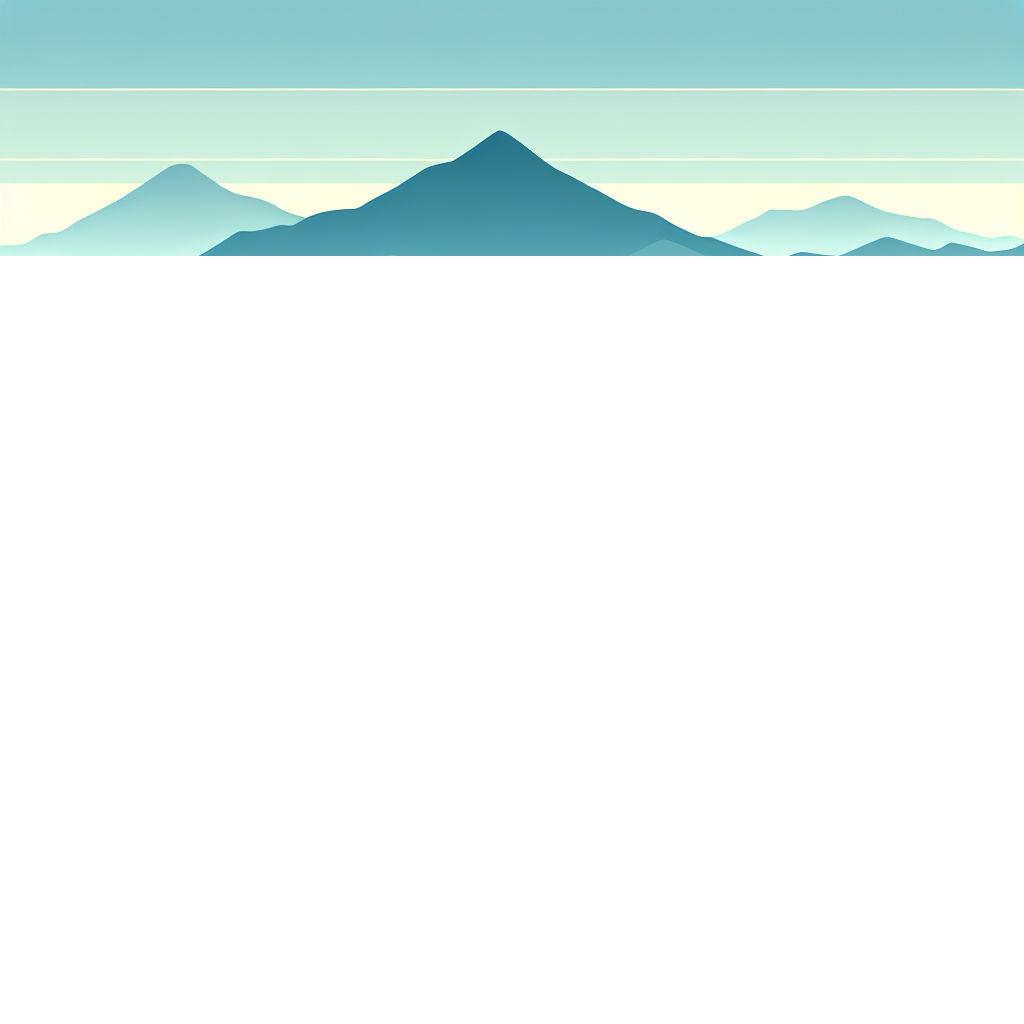
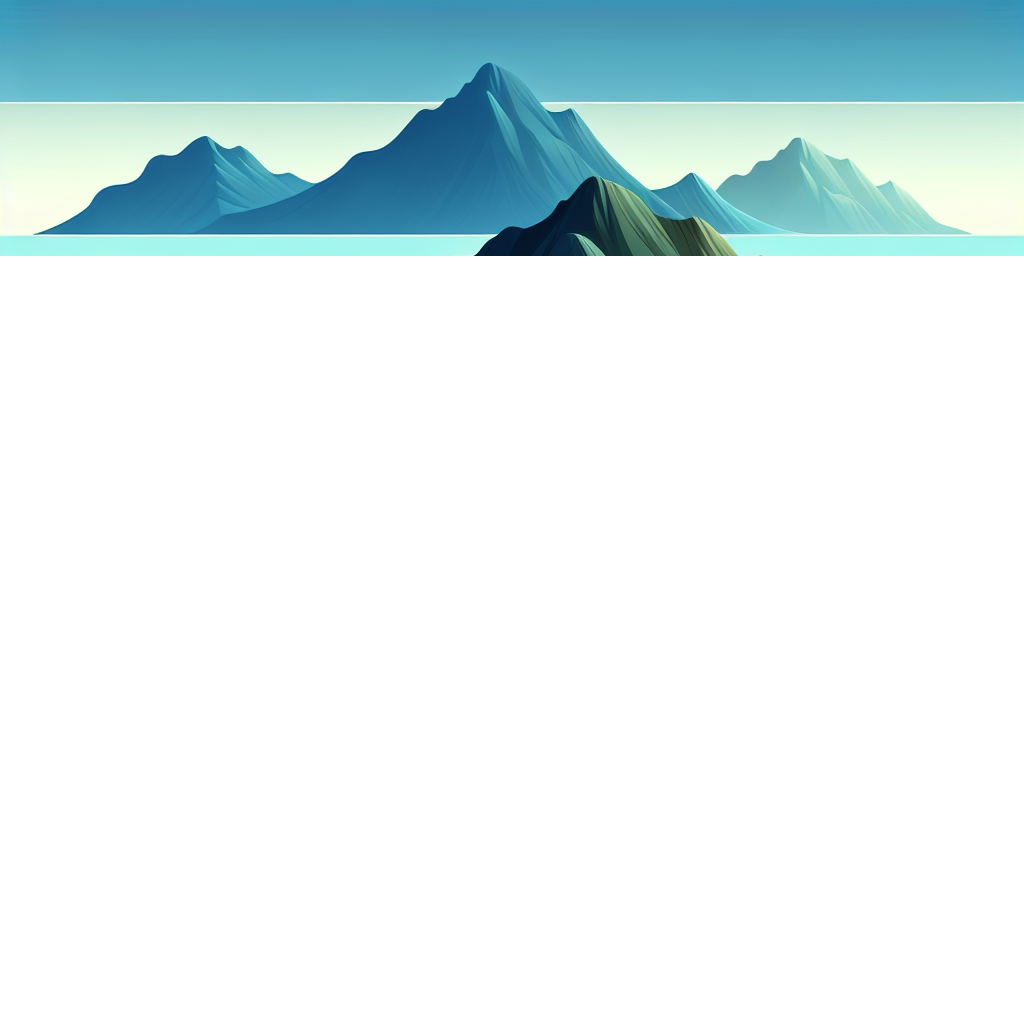
🦀Generated files for 2025-06-01🦀

Changed region(s): [[0.0, 0.0, 1.0, 0.25]]

diff --git a/README.md b/README.md
@@ -11,4 +11,4 @@ Prompts, images, layers, and GIFs are stored in their respective directories wit
 
 ![image](images/image_current.png)
 
-**Prompt:** A parallax background with limited palette. Layer 1: distant blue mountains with smooth curves. Layer 2: mid-range green hills with gentle slopes. Layer 3: near brown trees with simple trunks and rounded canopies. Layer 4: foreground tan ground with scattered rocks and bushes.
+**Prompt:** A parallax background with limited palette. Layer 1: distant blue mountains with smooth peaks. Layer 2: mid-range green hills with gentle curves. Layer 3: near brown rocky formations with simple shapes. Layer 4: foreground tan dirt ground with scattered rocks and grass patches.
